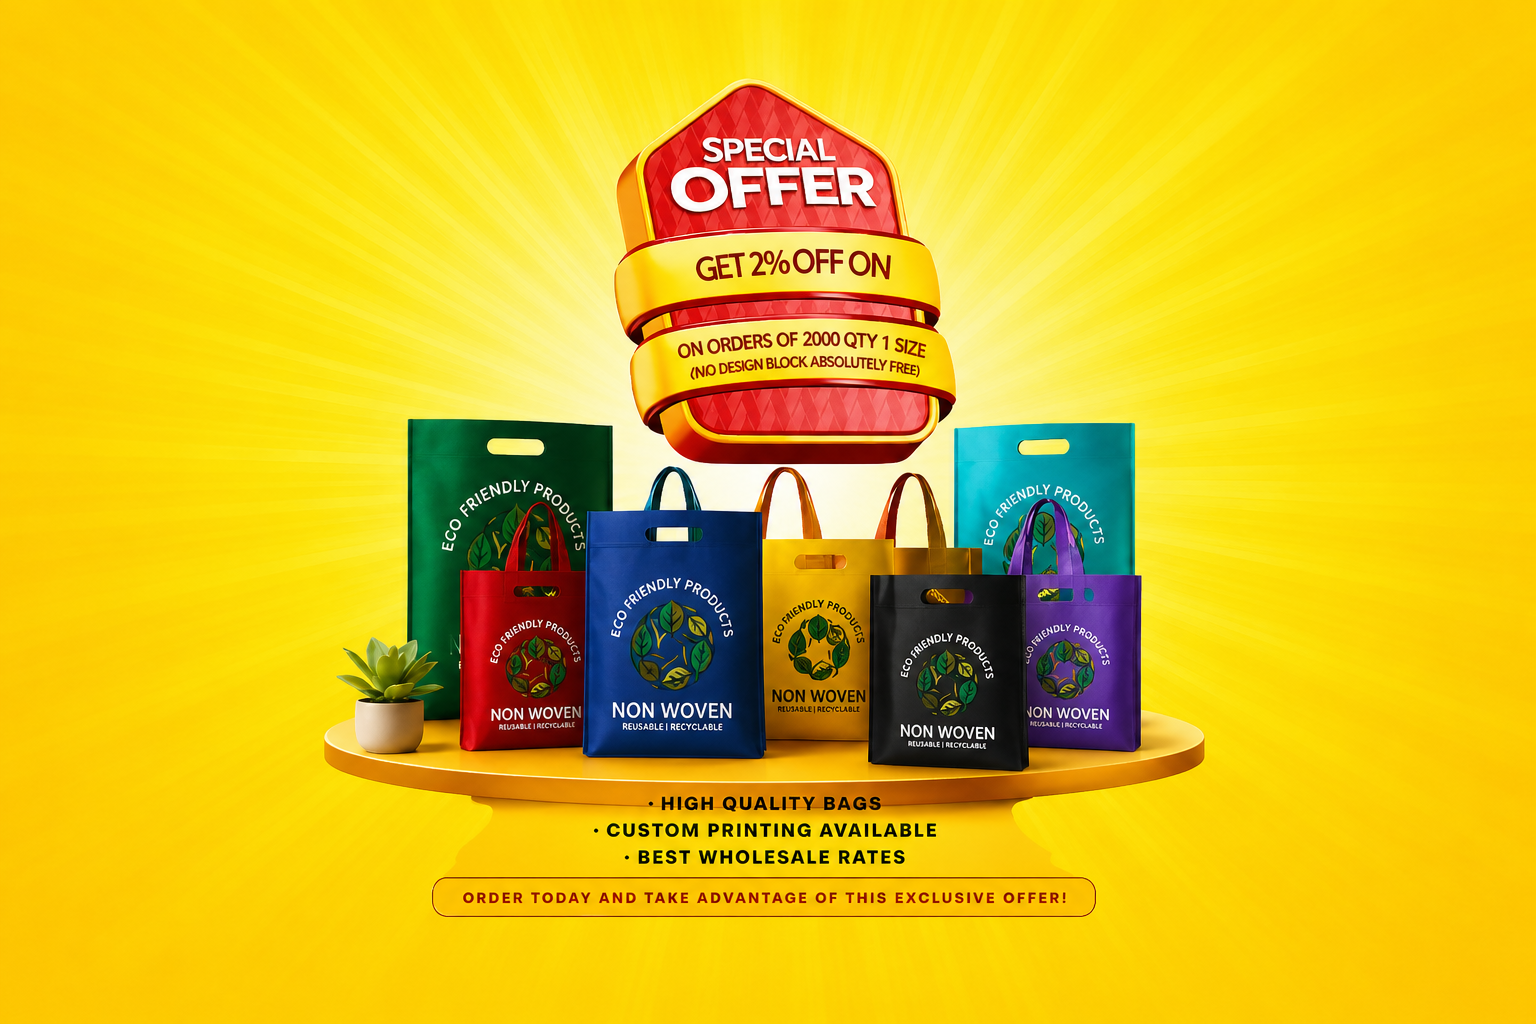
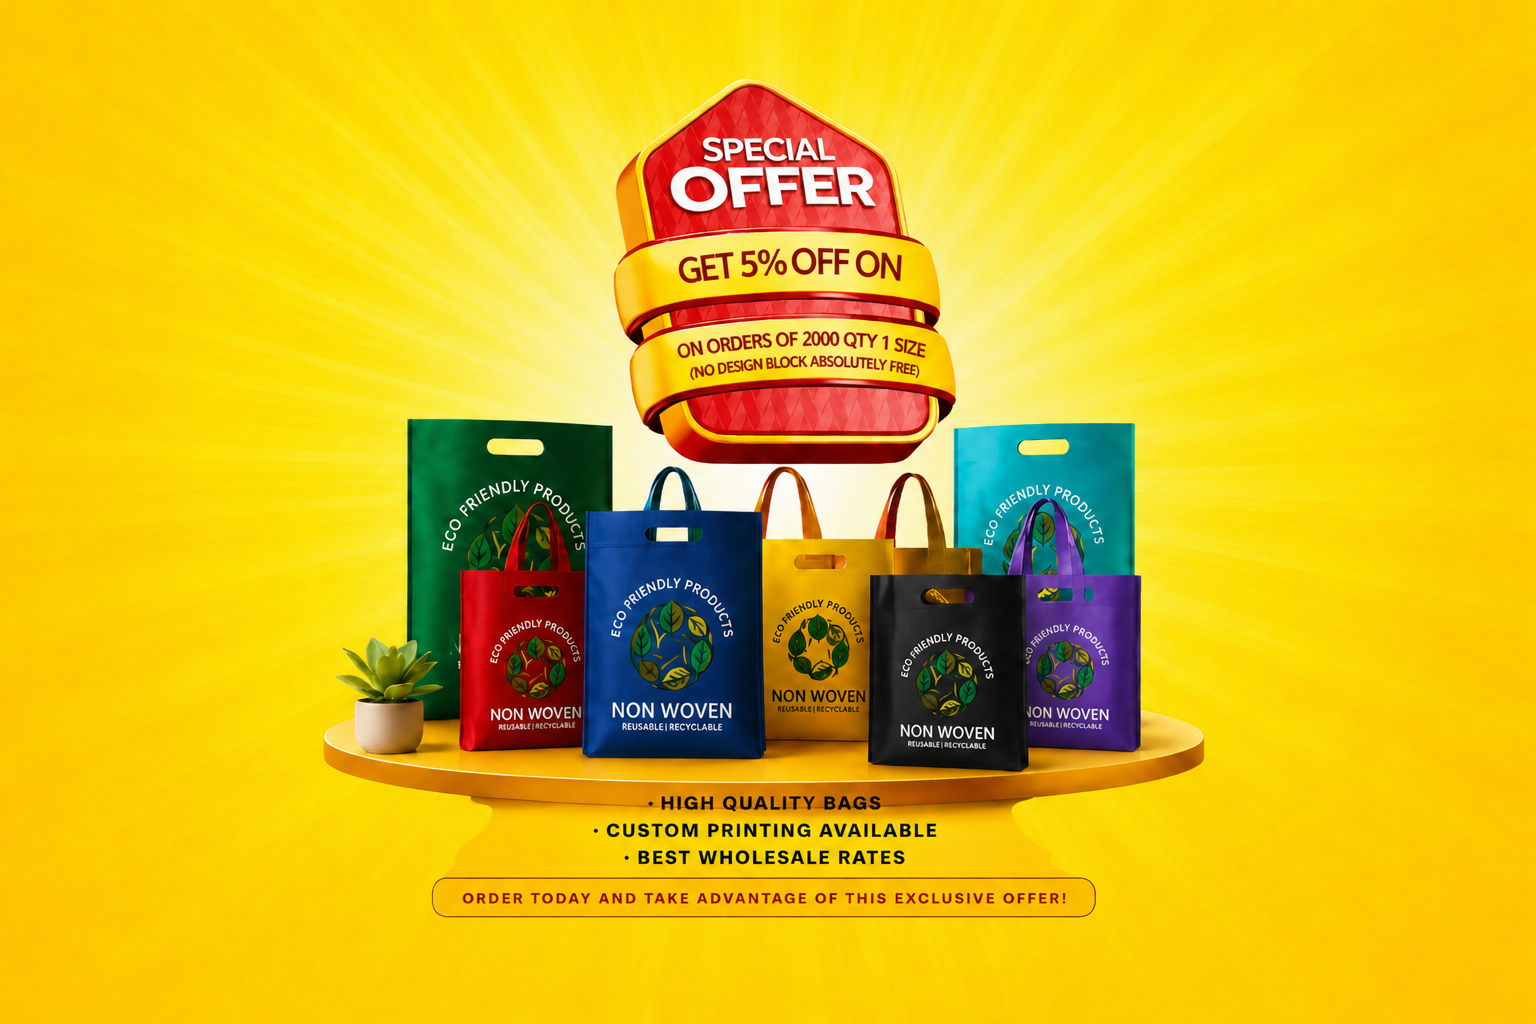
updated files

diff --git a/sale_hero.js b/sale_hero.js
@@ -41,39 +41,39 @@
     /* ── Fallback demo data shown when no sheet URL is set ── */
     var DEMO_OFFERS = [
         {
-            title: 'Flat 2% Off on  Bags',
+            title: 'Flat 5% Off on  Bags',
             subtitle: 'Orders above 2000 Qty— Limited period offer',
             badge: '5% Bonus',
-            image_url: 'img/b1.png',
+            image_url: 'img/b2.png',
             link: 'products.html',
             discount_pct: '5',
             active: 'true'
         },
         {
-            title: 'Flat 2% Off on  Bags',
+            title: ' 2% Off on RELIENCE Green ',
             subtitle: 'Orders above 2000 Qty— Limited period offer',
             badge: '@2% Off',
-            image_url: 'img/b2.png',
+            image_url: 'img/b1.png',
             link: 'products.html',
             discount_pct: '',
             active: 'true'
         },
         {
-            title: 'Free Custom Print',
+            title: 'Free Custom Design',
             subtitle: 'On all Non-Woven Bags orders above ₹3000',
-            badge: 'Free Print',
+            badge: 'Free DESIGN',
             image_url: 'img/nw.png',
             link: 'products.html',
             discount_pct: '',
             active: 'true'
         },  
         {
-            title: 'Wholesale Discount @5%',
-            subtitle: 'Paper Bags — Bulk Orders above 500 pcs',
+            title: 'Retail Discount @5%',
+            subtitle: 'Prumium Bags for Retailers— Limited period offer',
             badge: '@5% Off',
             image_url: 'img/ju.png',
             link: 'products.html',
-            discount_pct: '5',
+            discount_pct: '20',
             active: 'true'
         }
     ];

diff --git a/app.js b/app.js
@@ -319,7 +319,7 @@ document.addEventListener('DOMContentLoaded', function () {
 
         var DEMO_OFFERS = [
             {
-                title: 'Buy 2000, Get @2% Off',
+                title: 'Buy 2000, Get @5% Off',
                 subtitle: 'Non-Woven Bags',
                 image_url: 'img/nw.png',
                 badge: '@5% Bonus',
@@ -333,17 +333,17 @@ document.addEventListener('DOMContentLoaded', function () {
                 link: 'products.html#retail-jute-bags'
             },
             {
-                title: 'Free Custom Print',
+                title: 'Free Custom Design',
                 subtitle: 'On all PP Bag orders',
                 image_url: 'img/pp.png',
-                badge: 'Free Print',
+                badge: 'Free Design',
                 link: 'products.html#retail-pp-bags'
             },
             {
-                title: 'Wholesale Discount @5%',
-                subtitle: 'Paper Bags — Bulk Orders',
+                title: 'Retail Discount @5%',
+                subtitle: 'Prumium Bags for Retailers— Limited period offer',
                 image_url: 'img/paper.avif',
-                badge: '@5  % Off',
+                badge: 'Coming Soon ',
                 link: 'products.html#wholesale-products'
             }
         ];